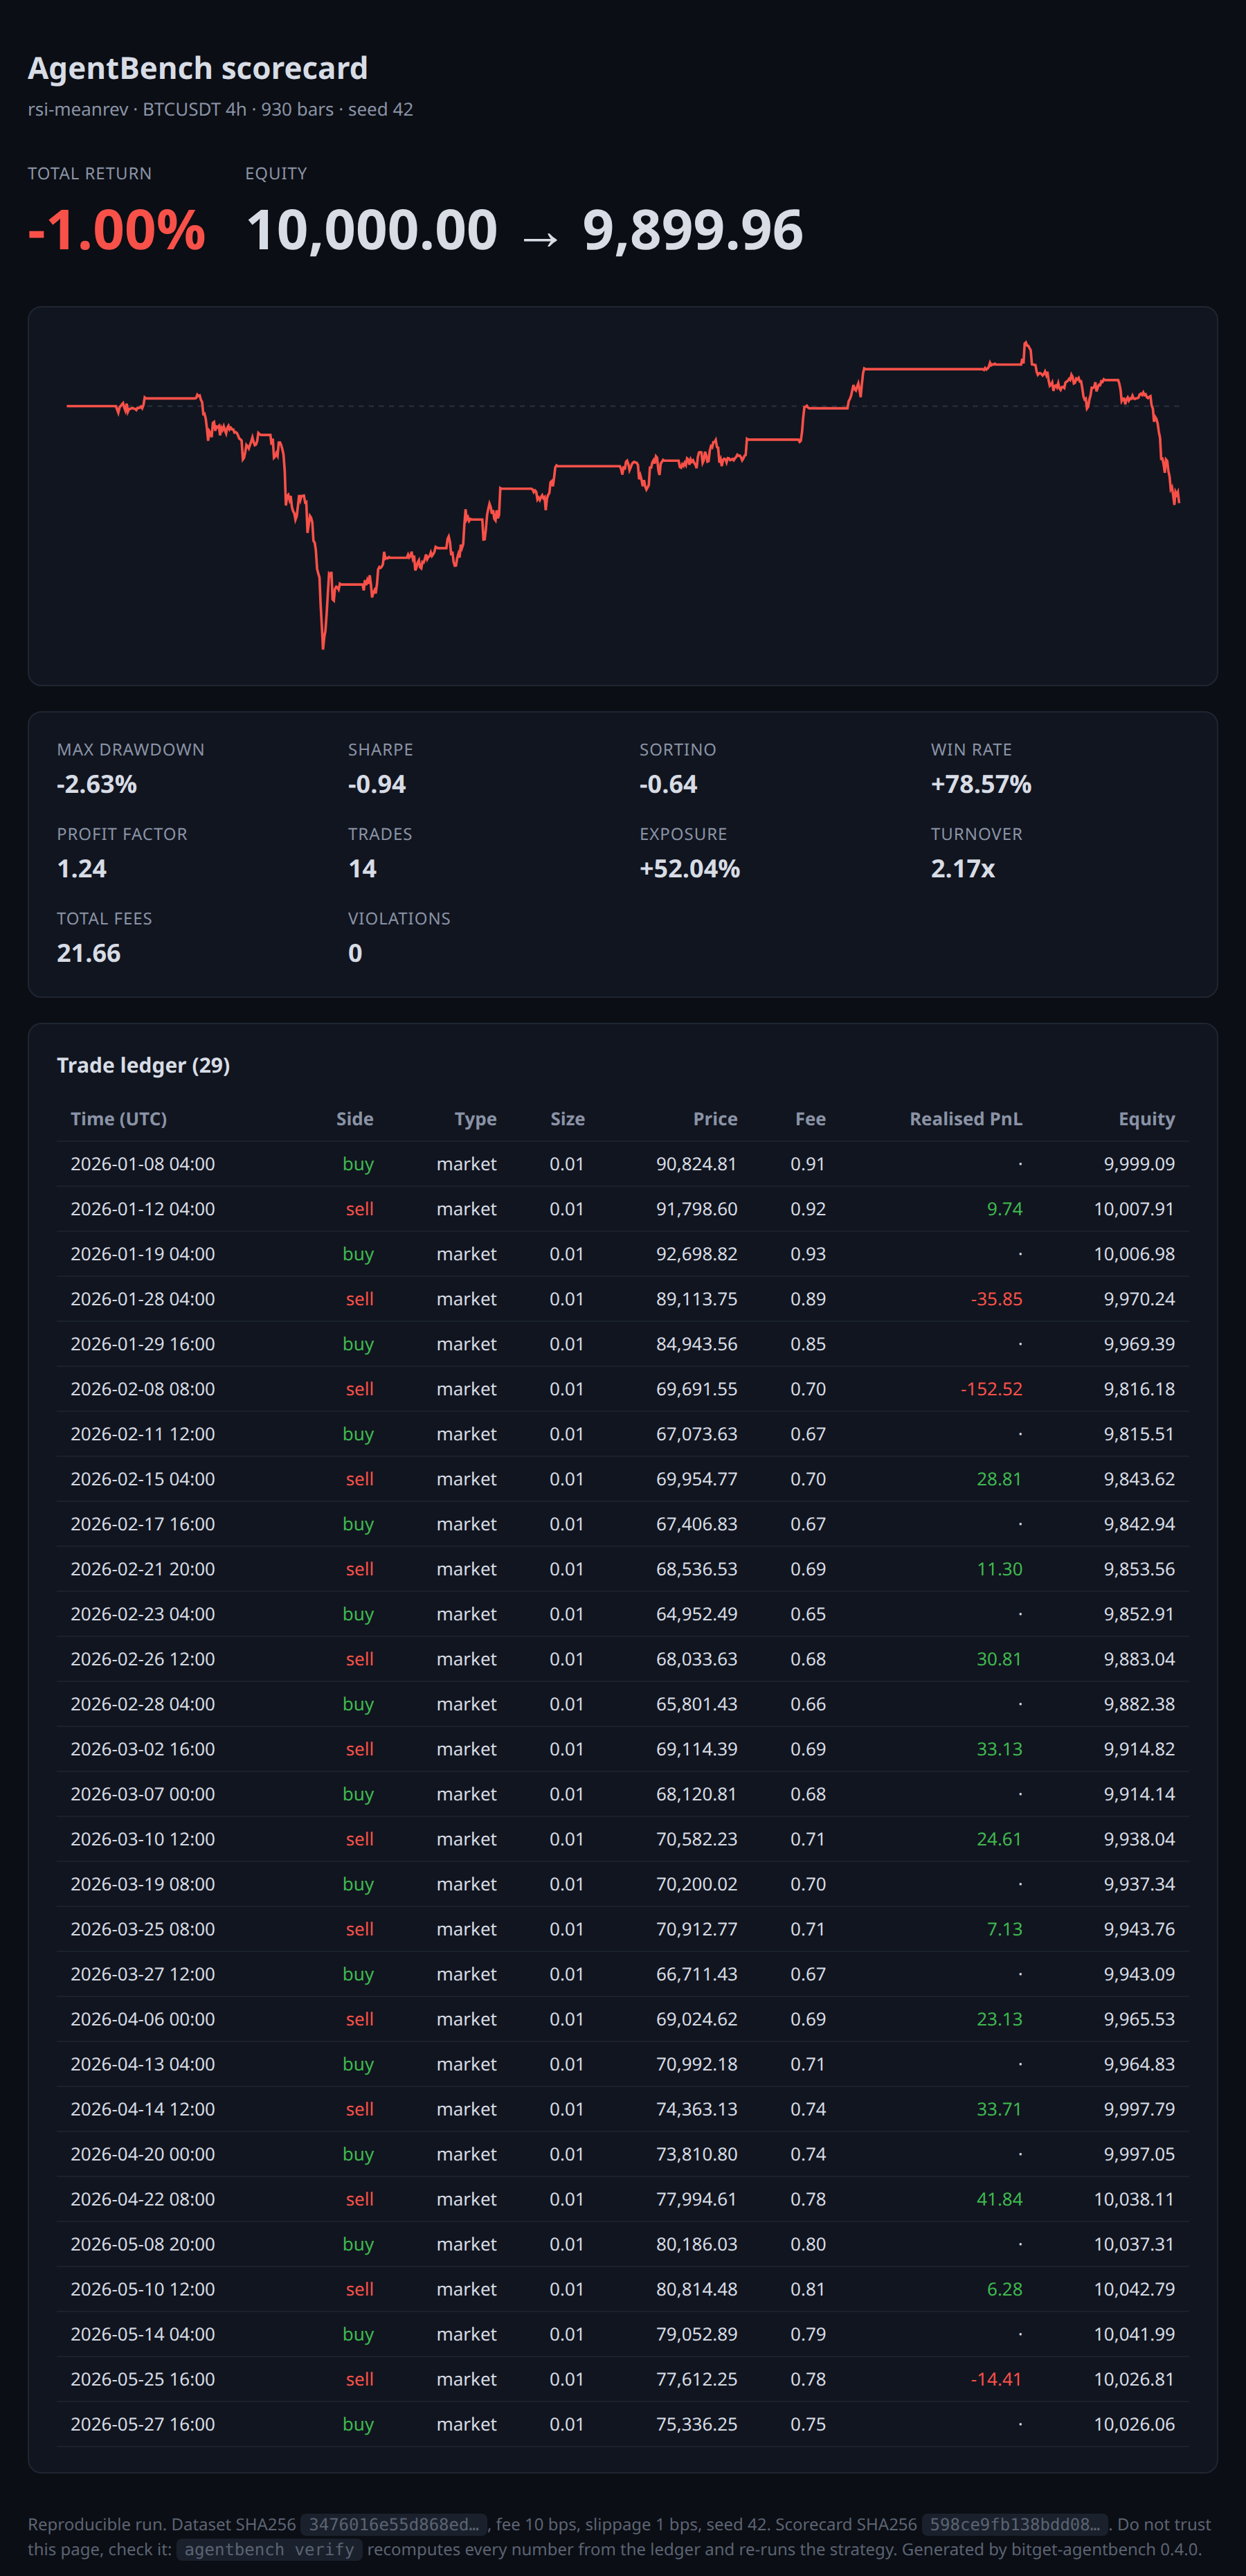
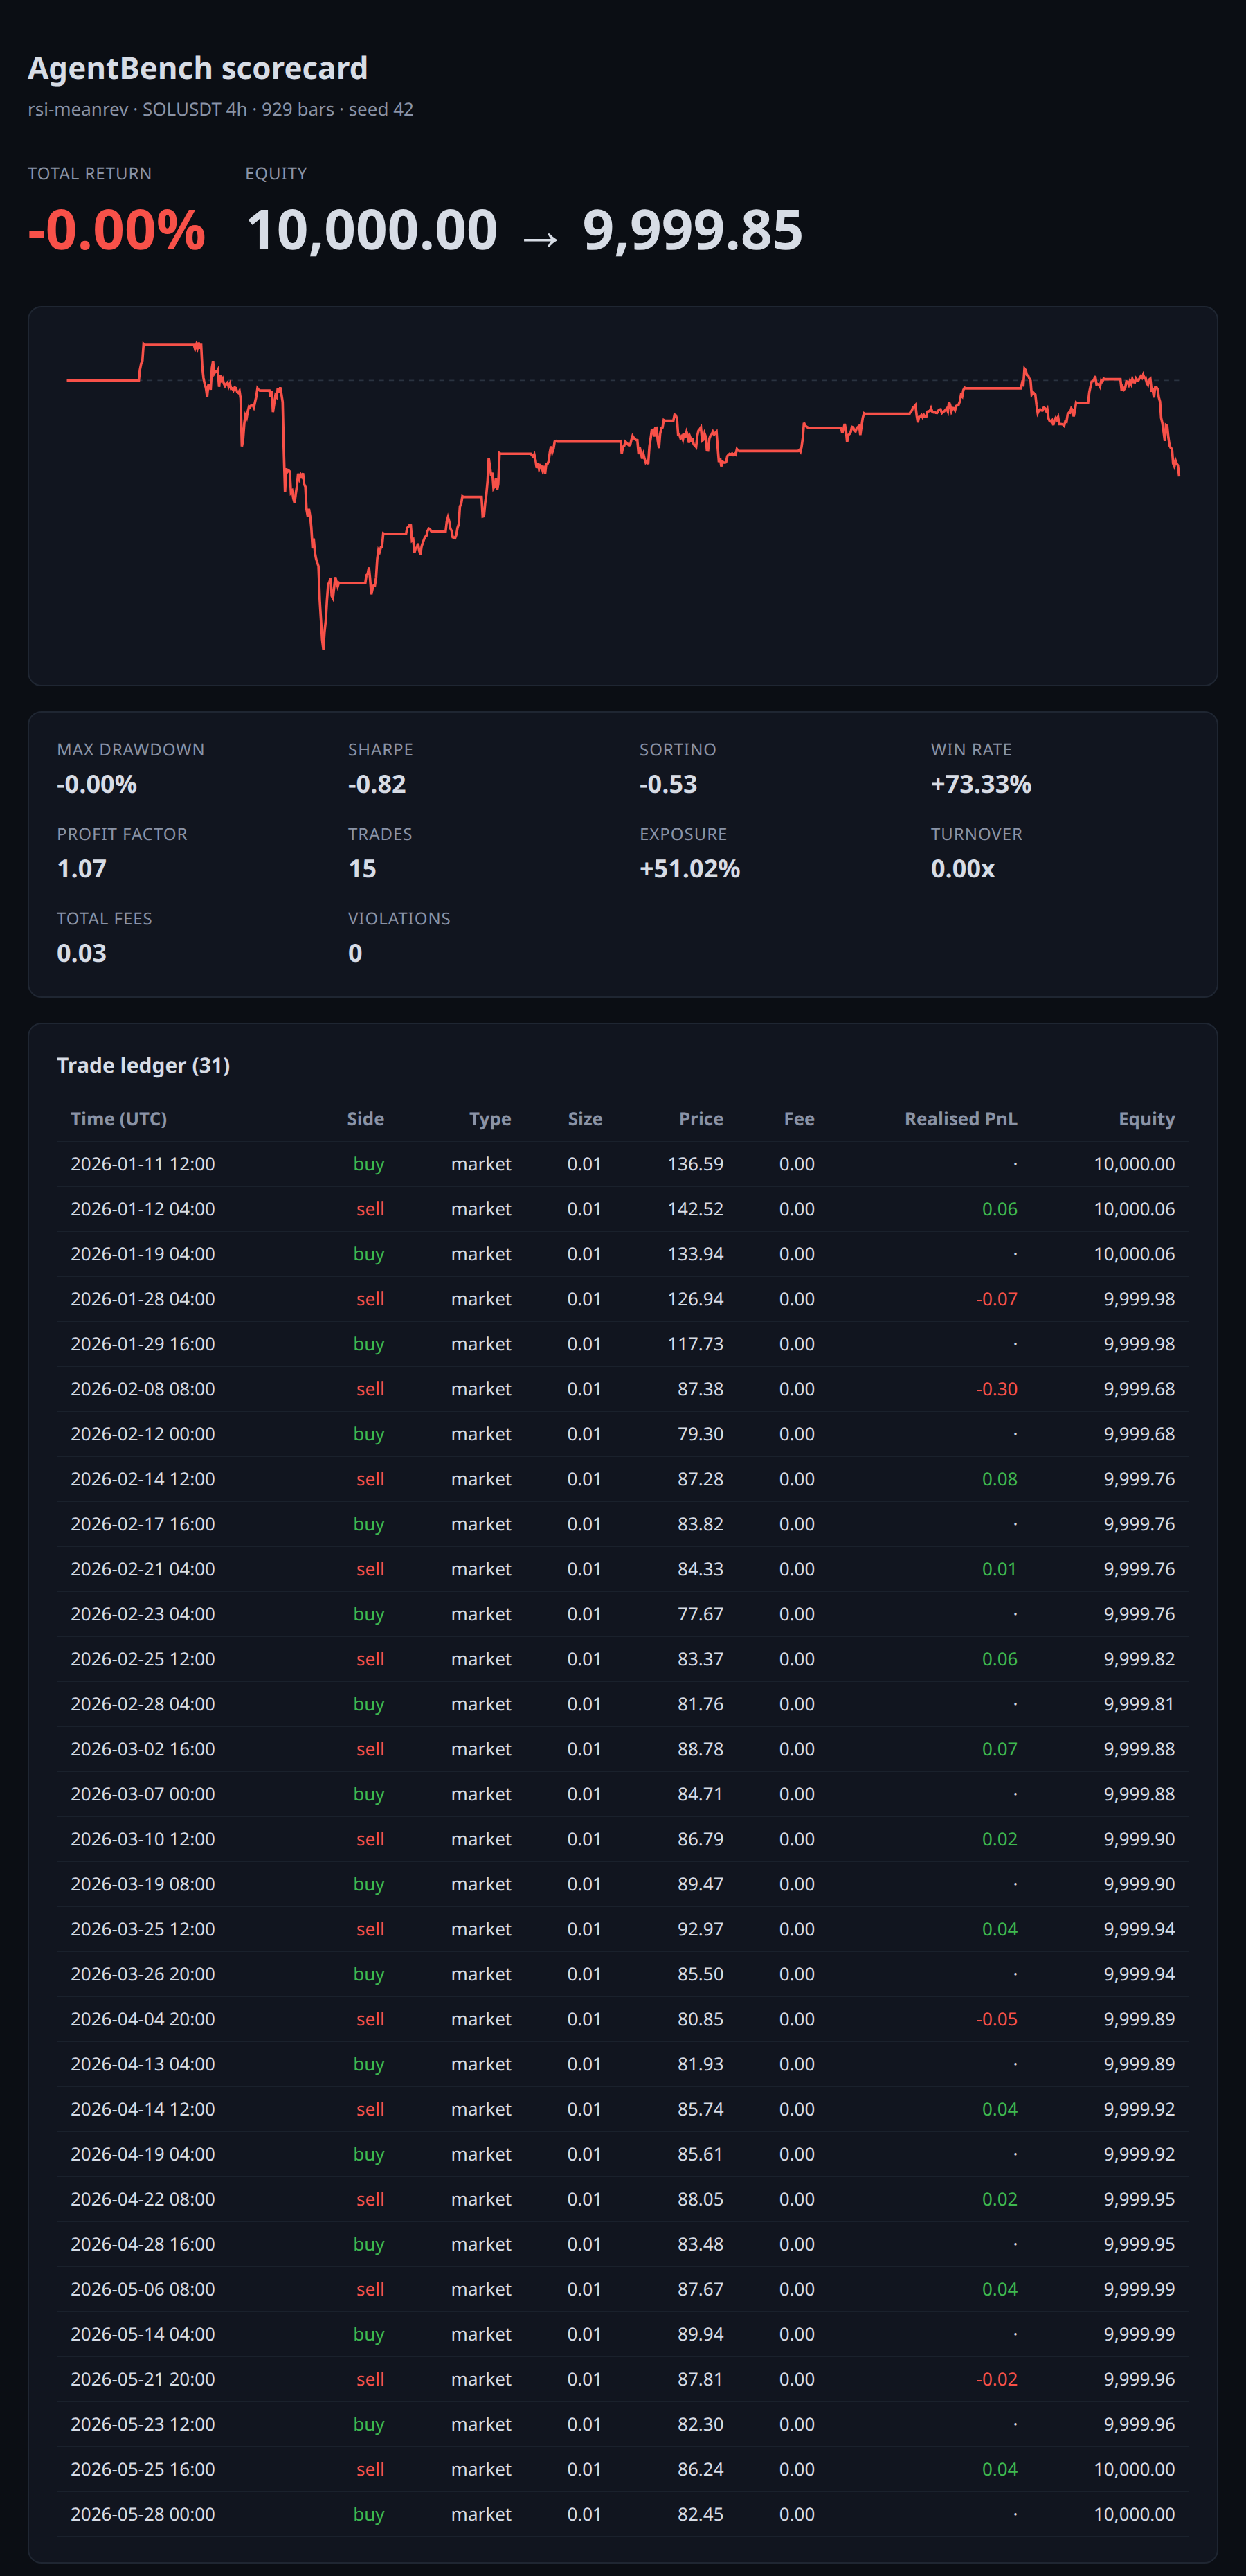
docs: surface the architecture diagram, honest scorecard, verify-first social card
Show the pipeline diagram (already shipped, never displayed) after the
backtest/score/verify list. Regenerate the scorecard screenshot from a
real break-even demo run with a caption that it is a reproducibility
demo, not a performance claim. Remake the social card to lead with verify
and wire og:image + twitter tags on the GitHub Pages verifier so the
shared link gets a preview. Build copies the card into docs/.

diff --git a/docs/index.html b/docs/index.html
@@ -4,6 +4,16 @@
 <meta charset="utf-8" />
 <meta name="viewport" content="width=device-width, initial-scale=1" />
 <title>AgentBench: verify a scorecard in your browser</title>
+<meta name="description" content="Backtest, score and verify Bitget trading agents. A scorecard a stranger can re-run and check, with no API keys and no real money." />
+<meta property="og:type" content="website" />
+<meta property="og:title" content="AgentBench: verify a scorecard in your browser" />
+<meta property="og:description" content="Backtest, score and verify Bitget trading agents. Re-run the scorecard and the numbers reproduce. If they do not, the verdict turns red." />
+<meta property="og:url" content="https://zkasuran.github.io/bitget-agentbench/" />
+<meta property="og:image" content="https://zkasuran.github.io/bitget-agentbench/social-card.png" />
+<meta name="twitter:card" content="summary_large_image" />
+<meta name="twitter:title" content="AgentBench: verify a scorecard in your browser" />
+<meta name="twitter:description" content="Backtest, score and verify Bitget trading agents. Re-run the scorecard and the numbers reproduce. If they do not, the verdict turns red." />
+<meta name="twitter:image" content="https://zkasuran.github.io/bitget-agentbench/social-card.png" />
 <style>
   :root {
     --bg: #0b0e14; --panel: #11151f; --panel2: #1a212c; --line: #2a3340;

diff --git a/web/index.html b/web/index.html
@@ -4,6 +4,16 @@
 <meta charset="utf-8" />
 <meta name="viewport" content="width=device-width, initial-scale=1" />
 <title>AgentBench: verify a scorecard in your browser</title>
+<meta name="description" content="Backtest, score and verify Bitget trading agents. A scorecard a stranger can re-run and check, with no API keys and no real money." />
+<meta property="og:type" content="website" />
+<meta property="og:title" content="AgentBench: verify a scorecard in your browser" />
+<meta property="og:description" content="Backtest, score and verify Bitget trading agents. Re-run the scorecard and the numbers reproduce. If they do not, the verdict turns red." />
+<meta property="og:url" content="https://zkasuran.github.io/bitget-agentbench/" />
+<meta property="og:image" content="https://zkasuran.github.io/bitget-agentbench/social-card.png" />
+<meta name="twitter:card" content="summary_large_image" />
+<meta name="twitter:title" content="AgentBench: verify a scorecard in your browser" />
+<meta name="twitter:description" content="Backtest, score and verify Bitget trading agents. Re-run the scorecard and the numbers reproduce. If they do not, the verdict turns red." />
+<meta name="twitter:image" content="https://zkasuran.github.io/bitget-agentbench/social-card.png" />
 <style>
   :root {
     --bg: #0b0e14; --panel: #11151f; --panel2: #1a212c; --line: #2a3340;

diff --git a/README.md b/README.md
@@ -42,6 +42,10 @@ AgentBench fills that gap and closes it with verification:
   re-derives the whole claim and prints PASS or FAIL. Re-running a doctored
   scorecard fails, even if the forger re-stamps the hash.
 
+<p align="center">
+  <img src="assets/architecture.png" alt="AgentBench pipeline: your strategy through RiskGuard, the fill simulator on real Bitget candles, the metrics engine, to a scorecard and trade ledger" width="820" />
+</p>
+
 ## Install
 
 ```bash
@@ -67,7 +71,10 @@ The run prints a summary and writes a `report/` folder with `scorecard.json`,
 
 ![AgentBench scorecard](assets/scorecard.png)
 
-Every number is computed from real Bitget candles and reproduces from the seed.
+This is a demo run of a textbook strategy, not a performance claim. The built-ins
+are simple on purpose. The point is that every number is computed from real Bitget
+candles and reproduces byte for byte from the seed, so you can check it rather than
+trust it.
 
 ## Verify: do not trust the scorecard, check it
 